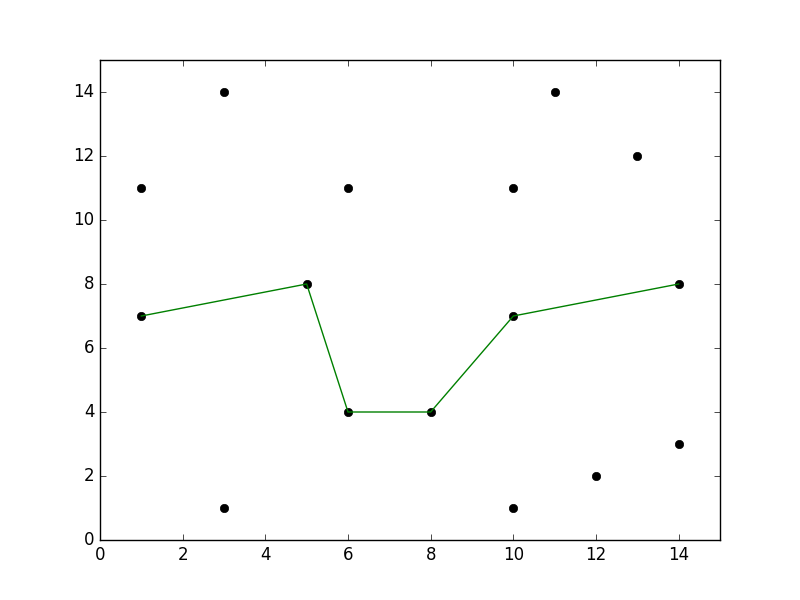
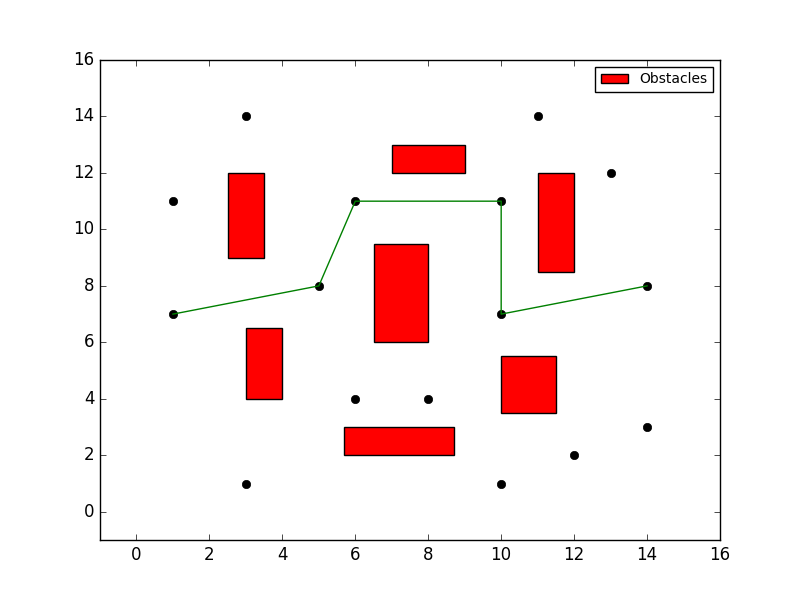
Legends added in plot, Obstacles boxes filled with color

diff --git a/draw_plot.py b/draw_plot.py
@@ -9,7 +9,7 @@ def draw_plot(best_chromosome):
     best_path_y = []
 
     plt.figure()
-    plt.axis([0.0, 15.0, 0.0, 15.0])
+    plt.axis([-1.0, 16.0, -1.0, 16.0])
 
     _draw_obstacles()
 
@@ -24,37 +24,40 @@ def draw_plot(best_chromosome):
 
     plt.plot(node_x, node_y, "ko")
     plt.plot(best_path_x, best_path_y, "g-")
+
     plt.draw()
     plt.savefig("./docs/images/best_path.png")
-    plt.pause(0.02)
+    plt.pause(5)
 
 
 def _draw_obstacles():
 
     obs_1_x = [2.5, 3.5, 3.5, 2.5, 2.5]
     obs_1_y = [9, 9, 12, 12, 9]
-    plt.plot(obs_1_x, obs_1_y, "g")
+    plt.fill(obs_1_x, obs_1_y, "r")
+
+    plt.legend(('Obstacles', ''), loc='upper right', fontsize='small', numpoints=1, markerscale=0.5, labelspacing=1)
 
     obs_2_x = [3, 4, 4, 3, 3]
     obs_2_y = [6.5, 6.5, 4, 4, 6.5]
-    plt.plot(obs_2_x, obs_2_y, "g")
+    plt.fill(obs_2_x, obs_2_y, "r")
 
     obs_3_x = [7, 9, 9, 7, 7]
     obs_3_y = [12, 12, 13, 13, 12]
-    plt.plot(obs_3_x, obs_3_y, "g")
+    plt.fill(obs_3_x, obs_3_y, "r")
 
     obs_4_x = [6.5, 8, 8, 6.5, 6.5]
     obs_4_y = [6, 6, 9.5, 9.5, 6]
-    plt.plot(obs_4_x, obs_4_y, "g")
+    plt.fill(obs_4_x, obs_4_y, "r")
 
     obs_5_x = [5.7, 8.7, 8.7, 5.7, 5.7]
     obs_5_y = [2, 2, 3, 3, 2]
-    plt.plot(obs_5_x, obs_5_y, "g")
+    plt.fill(obs_5_x, obs_5_y, "r")
 
     obs_6_x = [11, 12, 12, 11, 11]
     obs_6_y = [8.5, 8.5, 12, 12, 8.5]
-    plt.plot(obs_6_x, obs_6_y, "g")
+    plt.fill(obs_6_x, obs_6_y, "r")
 
     obs_7_x = [10, 11.5, 11.5, 10, 10]
     obs_7_y = [3.5, 3.5, 5.5, 5.5, 3.5]
-    plt.plot(obs_7_x, obs_7_y, "g")
+    plt.fill(obs_7_x, obs_7_y, "r")
